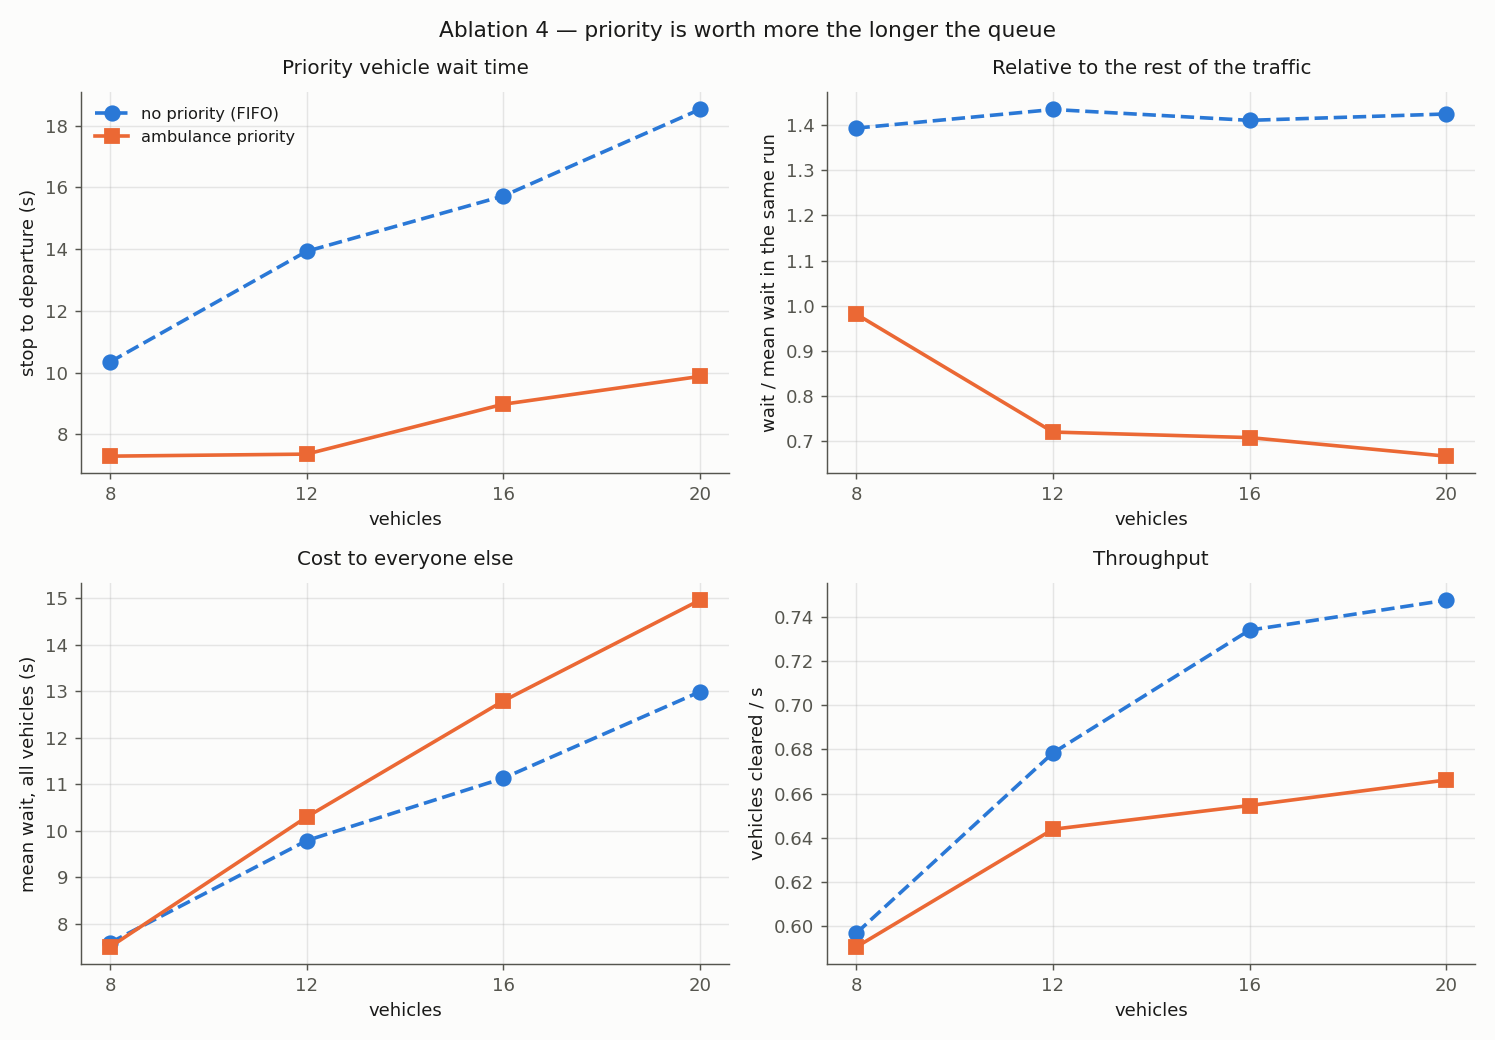
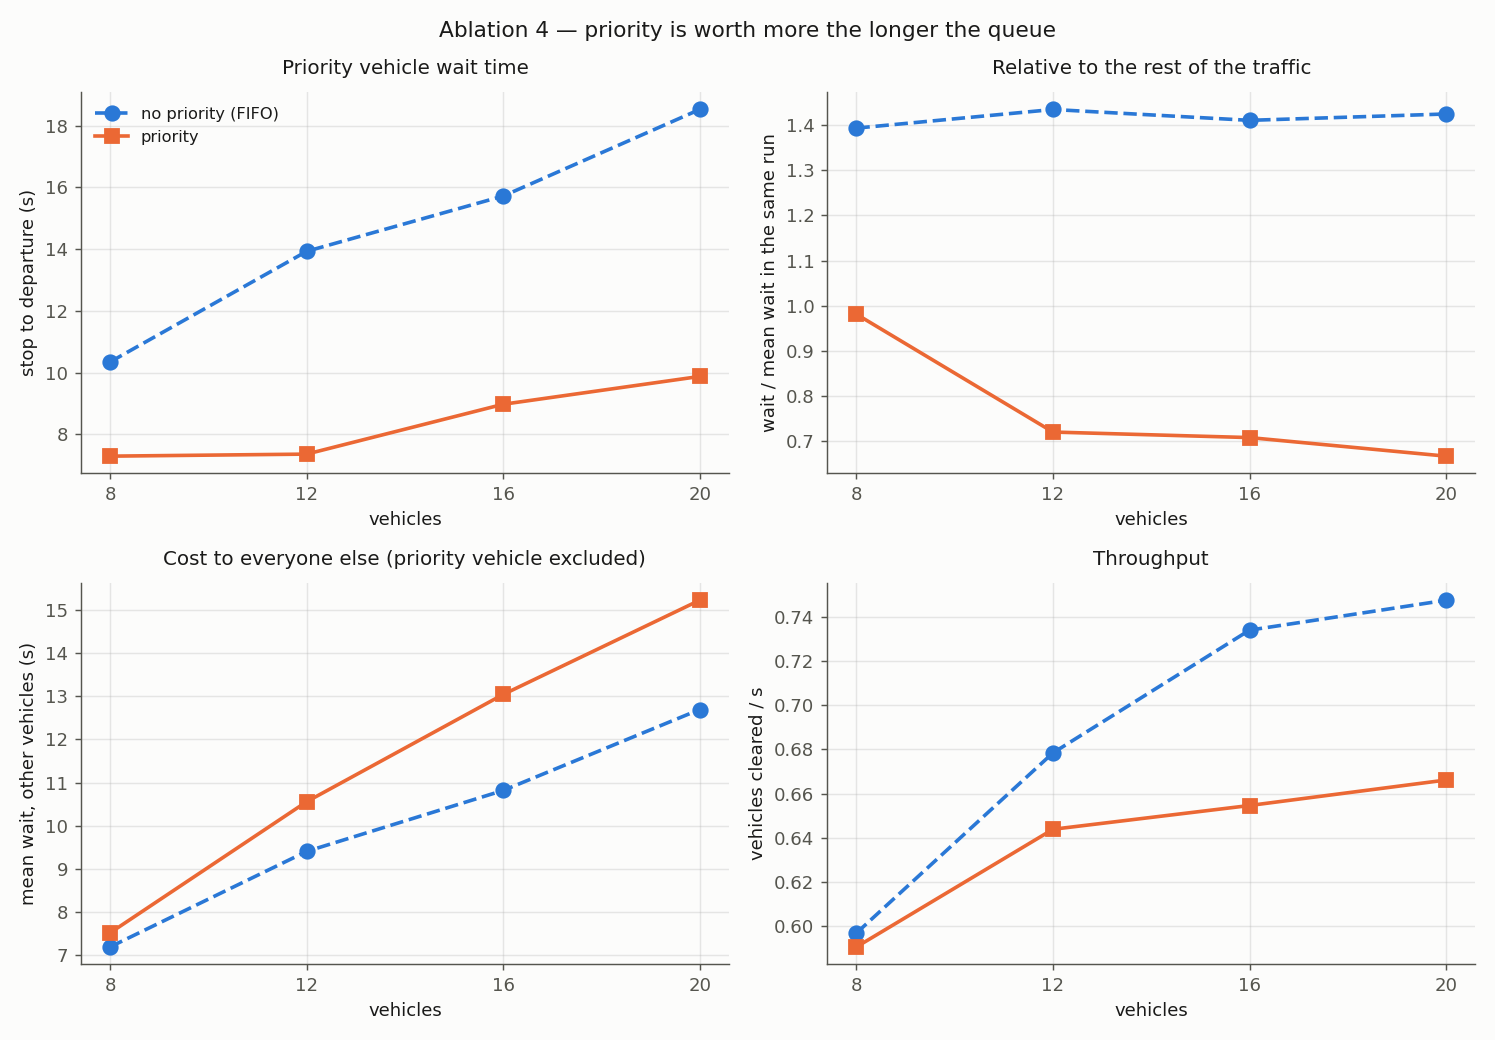
fix(plotter): stop counting the priority vehicle in the cost it imposed
Ablation 4's "Cost to everyone else" panel called clearance_wait(), which
averages the whole fleet -- so the priority vehicle sat inside the figure
reporting what priority cost the others, and its own saving cancelled part of
the cost it caused. At N=8 that inverted the sign: -0.09s, which reads as
priority being free, against +0.33s once the vehicle is taken out. The panel
title said "everyone else" while the y-axis said "all vehicles"; they now agree.
Corrected costs are +0.33 / +1.15 / +2.22 / +2.53s per other vehicle at
N=8/12/16/20.

Figure labels say "priority" rather than "ambulance", since the mechanism is
priority ordering and the vehicle being an ambulance is incidental to it.

Also records, without fixing, that ablation 3's two arms start their stopwatch
37.8 m apart. Ours triggers at stopDistance = 5m measured as
laneLength - lanePosition, and with 292.80 m approach lanes into a junction at
(300,300) the lane ends 7.2 m from centre, so the clock starts at 12.2 m. The
tl*veh configs never set stopDistance, so the signal arm inherits
BaselineModule.ned's 50 m default. BaselineModule additionally backdates
stopTime = arrivalTime for any vehicle reaching its 20 m departDistance still
rolling above 0.5 m/s, which fired for 484 of 540 signal vehicles -- so for ~90%
the metric is "50 m mark to cleared", approach travel included. The signal's
per-vehicle floor is flat at 4.1-4.6s at every load, a transit time rather than
[…]

diff --git a/plotter/figures/ab4_priority.py b/plotter/figures/ab4_priority.py
@@ -12,8 +12,11 @@ result worth reporting. The second panel normalises by the run's own mean, so
 the claim survives traffic growing in both arms. The third asks what priority
 cost everyone else -- a scheme that clears the ambulance by stalling the other
 vehicles is a different proposition, and a figure showing only the ambulance
-could not distinguish the two. The fourth checks it is not paid for in
-messages.
+could not distinguish the two. It averages the OTHER vehicles only: with the
+ambulance folded in, its own saving cancelled part of the cost it caused, and
+at N=8 that flipped the sign from +0.33s to -0.09s, i.e. from a cost to an
+apparent free lunch. The fourth checks it is not paid for in
+throughput.
 """
 from ..io import discover
 from ..metrics import aggregate
@@ -26,7 +29,7 @@ SUBPLOTS = (2, 2)
 FIGSIZE = (11.5, 8.0)
 
 _ARMS = (("noprio", "control", "no priority (FIFO)"),
-         ("prio", "treatment", "ambulance priority"))
+         ("prio", "treatment", "priority"))
 
 # Excluded, for the reason that makes this ablation meaningful at all:
 # priority is the right to jump a queue, and at 4 vehicles there is no
@@ -50,8 +53,11 @@ def load(runs):
                         for c, n in zip(cells[arm], ns)] for arm, _, _ in _ARMS},
         relative={arm: [aggregate.relative_wait(c, n - 1)
                         for c, n in zip(cells[arm], ns)] for arm, _, _ in _ARMS},
-        others={arm: [aggregate.clearance_wait(c) for c in cells[arm]]
-                for arm, _, _ in _ARMS},
+        # Excludes the priority vehicle itself. Averaging it in let its own
+        # speedup cancel part of the cost it imposed, which at N=8 reversed the
+        # sign: -0.09s (priority reads as free) against +0.33s without it.
+        others={arm: [aggregate.others_clearance_wait(c, n - 1)
+                      for c, n in zip(cells[arm], ns)] for arm, _, _ in _ARMS},
         cost={arm: [aggregate.msgs_per_vehicle(c) for c in cells[arm]]
               for arm, _, _ in _ARMS},
         thru={arm: [aggregate.throughput(c) for c in cells[arm]]
@@ -73,8 +79,9 @@ def build(data, axes):
            ylabel="stop to departure (s)", legend=True)
     _panel(data, "relative", flat[1], title="Relative to the rest of the traffic",
            ylabel="wait / mean wait in the same run")
-    _panel(data, "others", flat[2], title="Cost to everyone else",
-           ylabel="mean wait, all vehicles (s)")
+    _panel(data, "others", flat[2],
+           title="Cost to everyone else (priority vehicle excluded)",
+           ylabel="mean wait, other vehicles (s)")
     _panel(data, "thru", flat[3], title="Throughput",
            ylabel="vehicles cleared / s")
     flat[0].figure.suptitle(

diff --git a/plotter/metrics/aggregate.py b/plotter/metrics/aggregate.py
@@ -127,6 +127,22 @@ def clearance_wait(recs: Sequence[RunRecord]) -> Stat:
     return summarize([r.mean_clearance_wait for r in recs])
 
 
+def others_clearance_wait(recs: Sequence[RunRecord], vehicle_id: int) -> Stat:
+    """Mean stop -> departure over every vehicle EXCEPT the given one.
+
+    clearance_wait() averages the whole fleet, which for ablation 4 puts the
+    priority vehicle inside the figure that reports what priority cost the
+    others: its own speedup cancels part of the cost it caused. At N=8 that
+    inverted the sign, -0.09s (priority looks free) against +0.33s once the
+    ambulance is taken out.
+    """
+    values = []
+    for r in recs:
+        others = [w for v, w in r.clearance_waits().items() if v != vehicle_id]
+        values.append(statistics.mean(others) if others else None)
+    return summarize(values)
+
+
 def ambulance_clearance_wait(recs: Sequence[RunRecord]) -> Stat:
     """Stop -> departure for the ambulance, identified by its logged role
     rather than a hardcoded vehicle id (which changes with --randomize)."""

diff --git a/docs/ablations.md b/docs/ablations.md
@@ -90,6 +90,23 @@ the gate.
 
 ## 3. Actuated traffic light vs consensus — [ab3_baseline.png](../figures/ab3_baseline.png)
 
+**These delay numbers are not reportable yet — the two arms start their clock
+37.8 m apart.** Ours triggers at `stopDistance = 5m` measured as
+`laneLength - lanePosition`, and with 292.80 m approach lanes into a junction at
+(300,300) the lane ends 7.2 m from centre, so our clock starts at 12.2 m. The
+`tl*veh` configs never set `stopDistance`, so the signal arm inherits
+`BaselineModule.ned`'s 50 m default, Euclidean to the centre. `BaselineModule`
+also backdates `stopTime = arrivalTime` for any vehicle reaching its 20 m
+`departDistance` still rolling above 0.5 m/s, which fired for **484 of 540
+(89.6%)** signal vehicles — so for roughly nine in ten the metric is literally
+"50 m mark to cleared", approach travel included. The signal's per-vehicle floor
+is flat at 4.1–4.6 s at every load, which is a transit time rather than a wait;
+ours is 0.80 s at N=8. Correcting for the offset moves the ratios below to about
+1.48/1.53/1.30/1.29×. The departure trigger is already identical in both arms, so
+the start is the only asymmetry. Fix is one line per `tl*veh` config
+(`stopDistance = 12.2m`) and a re-run of the signal arm only. Panels 1, 3 and 4
+are affected; service rate is departure-instant based and is not.
+
 | N | signal wait | ours | delay | service rate |
 |---|---|---|---|---|
 | 8 | 14.40s | 7.28s | 1.98× | 3.42× |
@@ -144,6 +161,21 @@ Monotone in all four series, and **the benefit grows with load** — which is th
 claim the title makes. Priority wait rises gently (7.29 → 9.87) while FIFO rises
 steeply (10.34 → 18.52): the ambulance is inserted near the front regardless of
 queue length, so what grows is what it skips.
+
+**"Cost to everyone else" excludes the priority vehicle.** Averaging it into the
+figure that reports what priority cost the others let its own saving cancel part
+of the cost it caused; at N=8 that reversed the sign, showing -0.09s (priority
+reads as free) where the honest figure is +0.33s. Corrected costs are +0.33 /
++1.15 / +2.22 / +2.53s per other vehicle at N=8/12/16/20.
+
+**Open, same defect one panel over:** the *relative* panel still divides by a
+mean that includes the priority vehicle, which biases every point toward 1.0 --
+about 0.06-0.10 at N=8, under 0.02 by N=20. It understates the effect in both
+arms rather than flattering it. Also note the N=8 priority cells are bimodal
+across repetitions (0.11, 0.11, 0.64, 1.38, 1.46, 1.59, 1.98 excluding the
+vehicle itself): the priority car either makes the first conflict-matrix batch or
+waits a full round, with nothing in between, so the plotted N=8 mean describes no
+run that actually happened. That column rests on 7 repetitions, not 9.
 
 The *"relative to the rest of the traffic"* panel is the honest headline — it
 divides by the fleet mean, cancelling run-level variation.
@@ -225,6 +257,9 @@ threshold, and a Byzantine-injection log line.
 
 ## Known-open issues
 
+- **ab3 measures the two arms from different start points** — 37.8 m of
+  approach charged only to the signal (above); delay and throughput are not
+  reportable until the `tl` arm is re-run
 - **ab2 measures nothing** — attack does not succeed even undefended (above)
 - **ab1 does not plot the fault frontier**, which is the RSU benefit
 - **ab1 N=12** fault tolerance goes the wrong way with units
